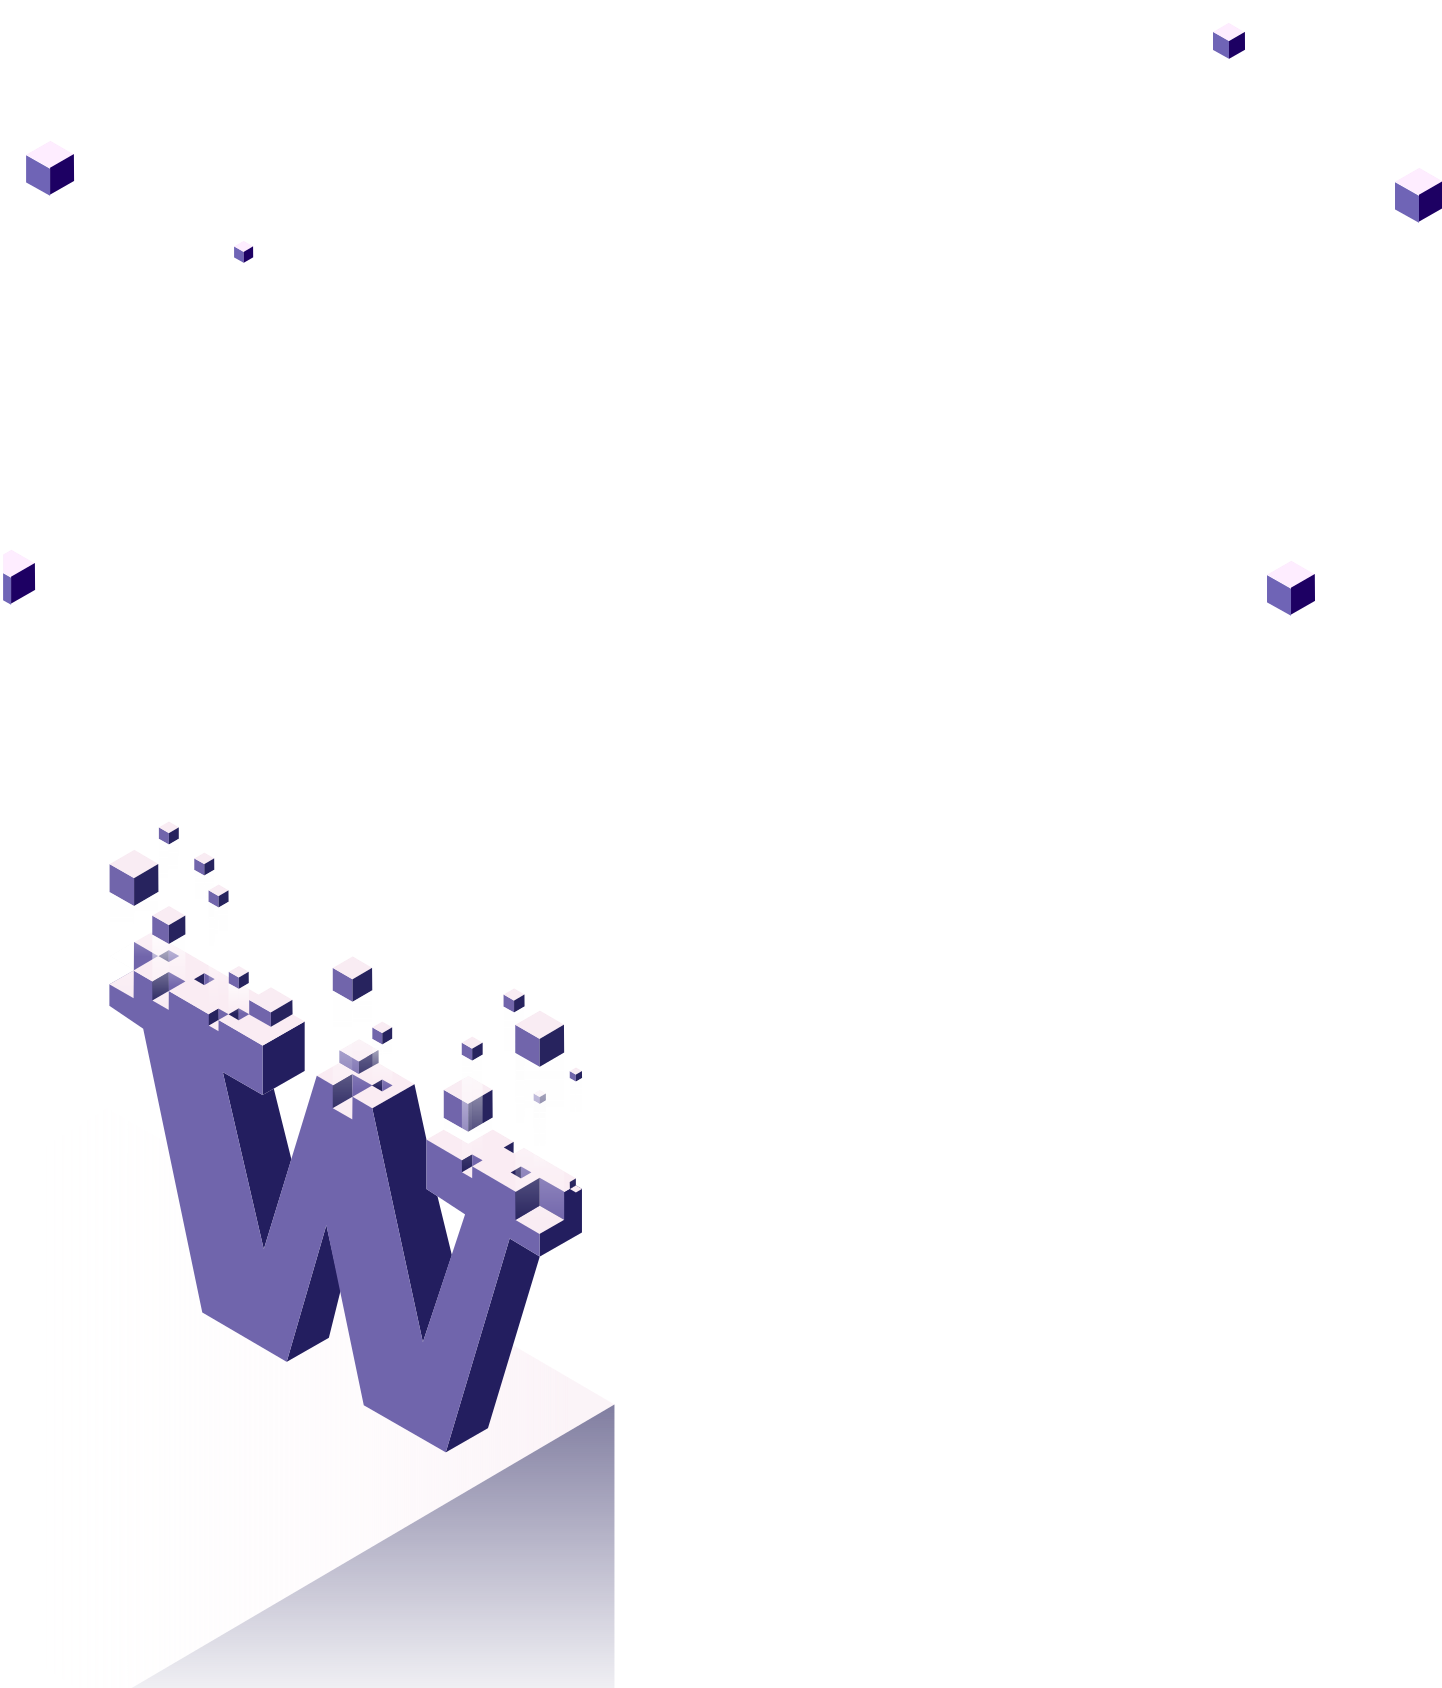
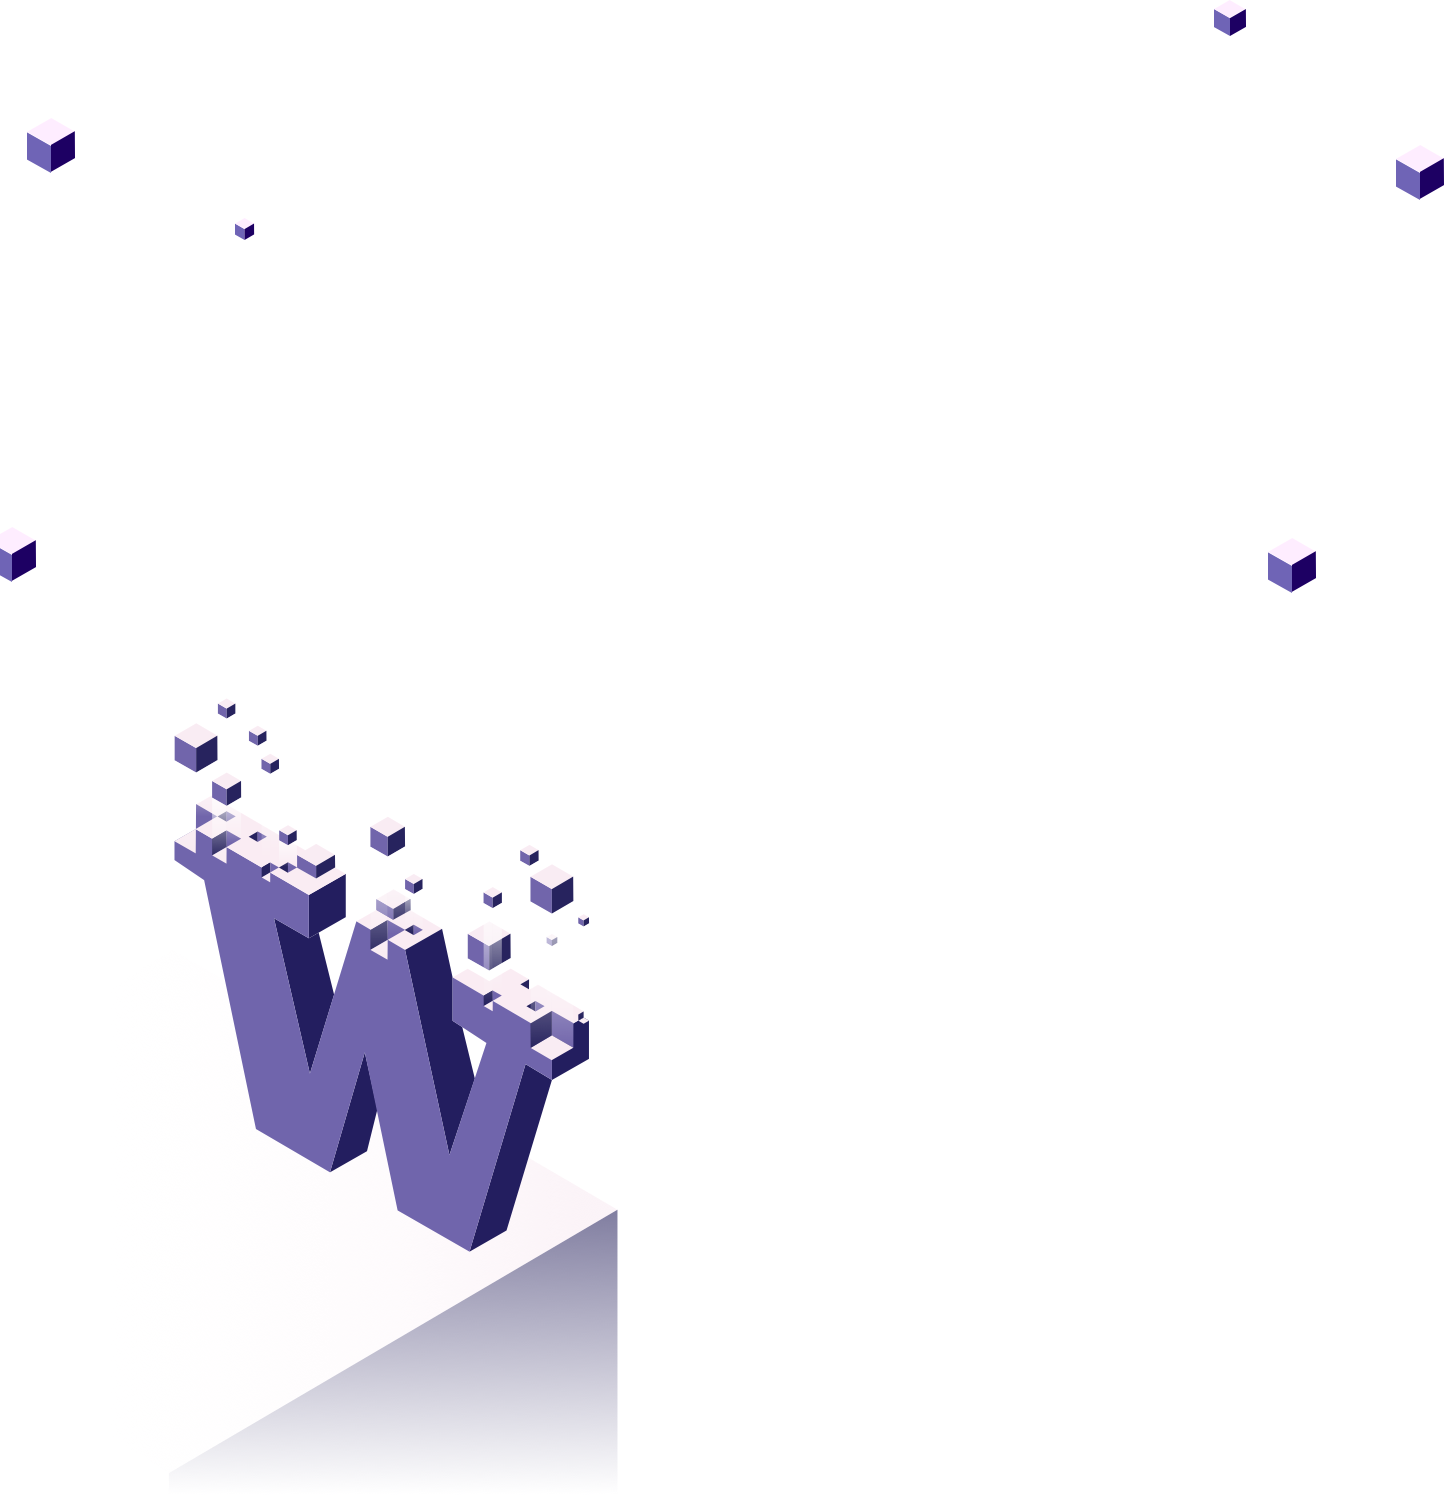
Added styling to form and some buttons

diff --git a/src/js/contact/Contact.js b/src/js/contact/Contact.js
@@ -1,5 +1,5 @@
 import React from 'react';
-import { Form, FormGroup, Col, Button, FormControl, ControlLabel, OverlayTrigger, Popover } from 'react-bootstrap';
+import { Row, Form, FormGroup, Col, Button, FormControl, ControlLabel, OverlayTrigger, Popover } from 'react-bootstrap';
 
 const Contact = () => (
   <div name="contact">
@@ -36,16 +36,24 @@ const Contact = () => (
         </Col>
       </FormGroup>
     </Form> */}
-    <form name="gform" id="gform" enctype="text/plain" action="https://docs.google.com/forms/d/e/1FAIpQLScqWh13INbTOAO_Acqwtq3vsDjs0VvpT24Xeuwe4-7Ph9o0rg/formResponse?" target="hidden_iframe" onsubmit="submitted=true;">
-      Name:<br/>
-      <input type="text" name="entry.1465724548" id="entry.1465724548"/>
-      Email:<br/>
-      <input type="text" name="entry.1347977438" id="entry.1347977438"/>
-      Inquiry:<br/>
-      <input type="text" name="entry.2033481424" id="entry.2033481424"/>
-      <input type="submit" value="Submit"/>
-    </form>
-    <iframe name="hidden_iframe" id="hidden_iframe" style={{display:'none'}} onLoad="if(submitted) {}"></iframe>
+    <div className="container">
+      <Row>
+        <Col md={6} mdOffset={3}>
+        <form name="gform" id="gform" enctype="text/plain" action="https://docs.google.com/forms/d/e/1FAIpQLScqWh13INbTOAO_Acqwtq3vsDjs0VvpT24Xeuwe4-7Ph9o0rg/formResponse?" target="hidden_iframe" onsubmit="submitted=true;">
+          Name:<br/>
+          <input type="text" name="entry.1465724548" id="entry.1465724548" placeholder="John Doe"/>
+          <br/>Email:<br/>
+          <input type="email" name="entry.1347977438" id="entry.1347977438" placeholder="example@email.com"/>
+          <br/>Inquiry:<br/>
+          <textarea name="entry.2033481424" id="entry.2033481424" rows="6"></textarea>
+          <input type="submit" value="Submit" id="contact-form-submit"/>
+        </form>
+
+        
+        <iframe name="hidden_iframe" id="hidden_iframe" style={{display:'none'}} onLoad="if(submitted) {}"></iframe>
+        </Col>
+      </Row>
+    </div>
   </div>
 );
 

diff --git a/src/css/index.css b/src/css/index.css
@@ -361,7 +361,7 @@ a.btn-purple:hover {
 }
 
 .row.hero-bottom {
-  padding-top: 20em;
+  padding-top: 13em;
   text-align: left;
 }
 
@@ -450,4 +450,37 @@ P a:hover {
 
 ::-ms-input-placeholder { /* Microsoft Edge */
   color: white;
+}
+
+
+form {
+  color: white;
+  font-size: 2rem;
+  font-weight: 600;
+  line-height: 2.3;
+}
+
+form input, 
+form textarea {
+  width: 100% !important;
+  color: white;
+  border: none;
+  border-bottom: 3px white solid;
+  background-color: rgba(255, 255, 255, 0.2);
+  border-radius: 0;
+  font-size: 2rem;
+  line-height: 2;
+  padding: 0.2em, 0.5em;
+}
+
+form input:focus {
+  border: inherit;
+  border-bottom: 3px white solid;
+  box-shadow: none;
+
+}
+
+
+form textarea {
+
 }

diff --git a/src/js/Newsletter.js b/src/js/Newsletter.js
@@ -14,7 +14,7 @@ const Newsletter = () => (
         <FormGroup controlId="formInlineEmail">
           <FormControl type="email" placeholder="email" bsSize="large" />
         </FormGroup>{' '}
-        <Button type="submit">SUBMIT</Button>
+        <a type="submit" className="btn-hero">SUBMIT</a>
       </Form>
     </div>
   </div>

diff --git a/src/js/sponsors/Sponsors.js b/src/js/sponsors/Sponsors.js
@@ -25,7 +25,7 @@ const Sponsors = () => (
         </p>
       </Row>
       <Row>
-        <a className="btn btn-default" href="mailto:info@blockchainsocietyuw.com">LEARN MORE</a>
+        <a className="btn btn-hero" href="mailto:info@blockchainsocietyuw.com">LEARN MORE</a>
       </Row>
     </Grid>
   </div>
